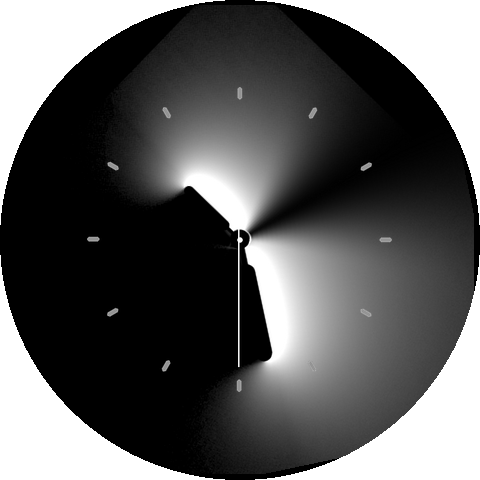
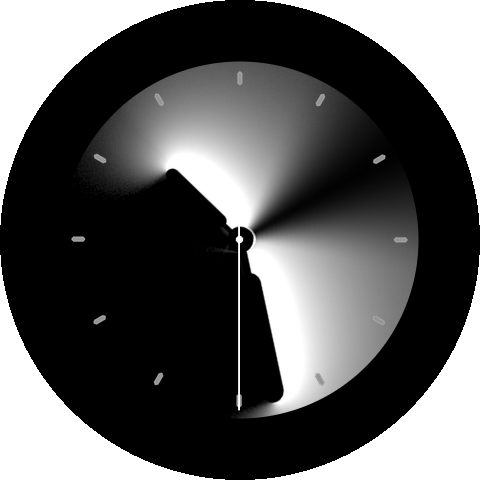
Clip Unity Lights to a fixed circular dial and clarify editor options

diff --git a/UnityLights/generate.py b/UnityLights/generate.py
@@ -105,6 +105,15 @@ for i in range(12):
     ticks.alpha_composite(tick.rotate(-30*i,resample=Image.Resampling.BICUBIC))
 sprite('ticks',ticks)
 
+# Keep the corner data outside a stationary circular aperture as the hands rotate.
+inset_hand_scale = .92
+inset_tick_scale = .76
+yy,xx=np.indices((480,480))
+distance=np.hypot(xx-239.5,yy-239.5)
+aperture=Image.new('RGBA',(480,480))
+aperture.putalpha(Image.fromarray(np.uint8(255*np.clip(distance-178,0,1))))
+sprite('inset_aperture',aperture)
+
 face=ET.Element('WatchFace',width='480',height='480',clipShape='CIRCLE')
 config=node(face,'UserConfigurations')
 palette=node(config,'ColorConfiguration',id='tone',displayName='color',defaultValue='0')
@@ -132,7 +141,7 @@ def hand(clock,side,name,size):
     return h
 for shape in ('full','inset'):
     holder=node(style_switch,'ListOption',id=shape)
-    factor=1 if shape=='full' else .69
+    factor=1 if shape=='full' else inset_hand_scale
     group=node(holder,'Group',name=shape,**box(0,0,480,480))
     switch=node(group,'Condition')
     exp=node(switch,'Expressions')
@@ -147,7 +156,8 @@ for shape in ('full','inset'):
                 hand(clock,side,f'{side}_{idx}_{mode}',round(680*factor))
             marks=node(node(layer,'ListConfiguration',id='density'),'ListOption',id='detailed')
             dim=round(480*factor)
-            imagepart(marks,'ticks',(480-dim)//2,(480-dim)//2,dim,dim)
+            ticks_dim=480 if shape=='full' else round(480*inset_tick_scale)
+            imagepart(marks,'ticks',(480-ticks_dim)//2,(480-ticks_dim)//2,ticks_dim,ticks_dim)
             clock=node(layer,'AnalogClock',**box(0,0,480,480))
             for side in ('hour','minute'):
                 hand(clock,side,side+'_body',round(680*factor))
@@ -155,6 +165,7 @@ for shape in ('full','inset'):
                 hand(clock,'second',f'second_{idx}',dim)
             imagepart(layer,f'pin_{idx}',234,234,12,12)
     if shape=='inset':
+        imagepart(group,'inset_aperture',0,0,480,480)
         for i,(cx,cy) in enumerate(((99,99),(381,99),(99,381),(381,381))):
             slot=node(scene,'ComplicationSlot',slotId=i+1,displayName=f'corner{i}',supportedTypes='SHORT_TEXT MONOCHROMATIC_IMAGE EMPTY',**box(cx-34,cy-31,68,62))
             node(slot,'BoundingOval',**box(0,0,68,62))
@@ -175,7 +186,7 @@ def preview(idx=0,inset=False,detailed=False,ambient_mode=False,minute=9):
     def paint(name,angle=0):
         im=Image.open(out/(name+'.png')).convert('RGBA')
         if inset:
-            im=im.resize(tuple(round(k*.69) for k in im.size),Image.Resampling.LANCZOS)
+            im=im.resize(tuple(round(k*(inset_tick_scale if name=='ticks' else inset_hand_scale)) for k in im.size),Image.Resampling.LANCZOS)
         if angle:
             im=im.rotate(-angle,resample=Image.Resampling.BICUBIC)
         canvas.alpha_composite(im,((480-im.width)//2,(480-im.height)//2))
@@ -187,6 +198,7 @@ def preview(idx=0,inset=False,detailed=False,ambient_mode=False,minute=9):
         paint(side+'_body',angle)
     if not ambient_mode: paint('second_'+str(idx),180)
     paint('pin_'+str(idx))
+    if inset: canvas.alpha_composite(aperture)
     circle=Image.new('L',(480,480))
     ImageDraw.Draw(circle).ellipse((0,0,479,479),fill=255)
     canvas=Image.composite(canvas,Image.new('RGBA',canvas.size),circle)
@@ -196,7 +208,7 @@ for name,kw in [('preview',{}),('option_full',{}),('option_inset',dict(inset=Tru
     if name.startswith('option_'):
         artwork=artwork.resize((192,192),Image.Resampling.LANCZOS)
     sprite(name,artwork)
-for name,kw in [('gallery',{}),('ambient',dict(ambient_mode=True)),('monochrome',dict(idx=1,inset=True,detailed=True,minute=28))]:
+for name,kw in [('gallery',{}),('circular_ticks',dict(inset=True,detailed=True)),('ambient',dict(ambient_mode=True)),('monochrome',dict(idx=1,inset=True,detailed=True,minute=28))]:
     preview(**kw).save(gallery/(name+'.png'))
 
 for loc in (fw/'解析/属性表'/bundle).glob('*.lproj'):
@@ -205,6 +217,13 @@ for loc in (fw/'解析/属性表'/bundle).glob('*.lproj'):
     options=read(common/'ClockFaces.strings.json')
     pigments=read(common/'FaceColors.strings.json')
     data=dict(face_name=own['COLTAN_FACE_NAME_IN_TITLE_CASE'],style=own['EDIT_OPTION_LABEL_DENSITY'],simple=own['EDIT_OPTION_LABEL_DENSITY_SIMPLE'],detailed=own['EDIT_OPTION_LABEL_DENSITY_DETAILED'],dial=options.get('EDIT_MODE_LABEL_DIAL',options.get('EDIT_MODE_LABEL_STYLE','Dial')),color=options['EDIT_MODE_LABEL_COLOR'],full=options['EDIT_OPTION_LABEL_ANALOG_DIAL_SHAPE_FULLSCREEN'],inset=options['EDIT_OPTION_LABEL_ANALOG_DIAL_SHAPE_CIRCULAR'],p0=pigments.get('unity.red & unity.green', '🟥 / 🟩'),p1=pigments.get('white','⬛ / ⬜'))
+    dial_strings=common/'ClockFaces-alchemy.strings.json'
+    if dial_strings.exists(): data['dial']=read(dial_strings).get('EDIT_MODE_LABEL_DIAL',data['dial'])
+    if loc.stem.startswith('en'):
+        data.update(dial='Dial shape',style='Hour markers',simple='No markers',detailed='12 markers')
+    elif loc.stem.startswith('zh'):
+        traditional=loc.stem not in ('zh_CN','zh_SG')
+        data.update(dial='錶盤形狀' if traditional else '表盘形状',style='小時刻度' if traditional else '小时刻度',simple='無刻度' if traditional else '无刻度',detailed='12 個刻度' if traditional else '12 个刻度')
     data['p1']='黑白' if loc.stem.startswith('zh') else ('Black & White' if loc.stem.startswith('en') else '◐')
     for i,key in enumerate(('TOP_LEFT','TOP_RIGHT','BOTTOM_LEFT','BOTTOM_RIGHT')):
         data[f'corner{i}']=options['SLOT_LABEL_'+key]

diff --git a/README.md b/README.md
@@ -160,4 +160,4 @@ The default lavender and three numeral silhouettes were sampled from the Apple g
 
 以上为布局渲染图。时针和分针分别带动光场，圆形内盘可显示四个 Wear OS 系统组件。光场来自 watchOS 24S132 的 Coltan 指针纹理及配色，在 WFF 中分层合成。24S132 固件的时、分、秒针长度常量依次为 90、150、154。息屏保留时分针光场，隐藏秒针；交叠阴影和面板亮度为近似值。1.1 修复了超大编辑选项图标导致三星运行时拒绝切换息屏状态的问题。
 
-[Galaxy 真机亮屏](UnityLights/screenshots/watch-1-1-active.png) · [Galaxy 真机息屏](UnityLights/screenshots/watch-1-1-ambient.png) · [下载团结之光 1.1](https://github.com/Charlie3xtra/galaxy-watch-faces/releases/download/unity-lights-1.1/UnityLights-1.1.apk)
+[Galaxy 真机亮屏](UnityLights/screenshots/watch-1-1-active.png) · [Galaxy 真机息屏](UnityLights/screenshots/watch-1-1-ambient.png) · [圆形内盘与十二刻度预览](UnityLights/screenshots/circular_ticks.png) · [下载团结之光 1.2](https://github.com/Charlie3xtra/galaxy-watch-faces/releases/download/unity-lights-1.2/UnityLights-1.2.apk)
